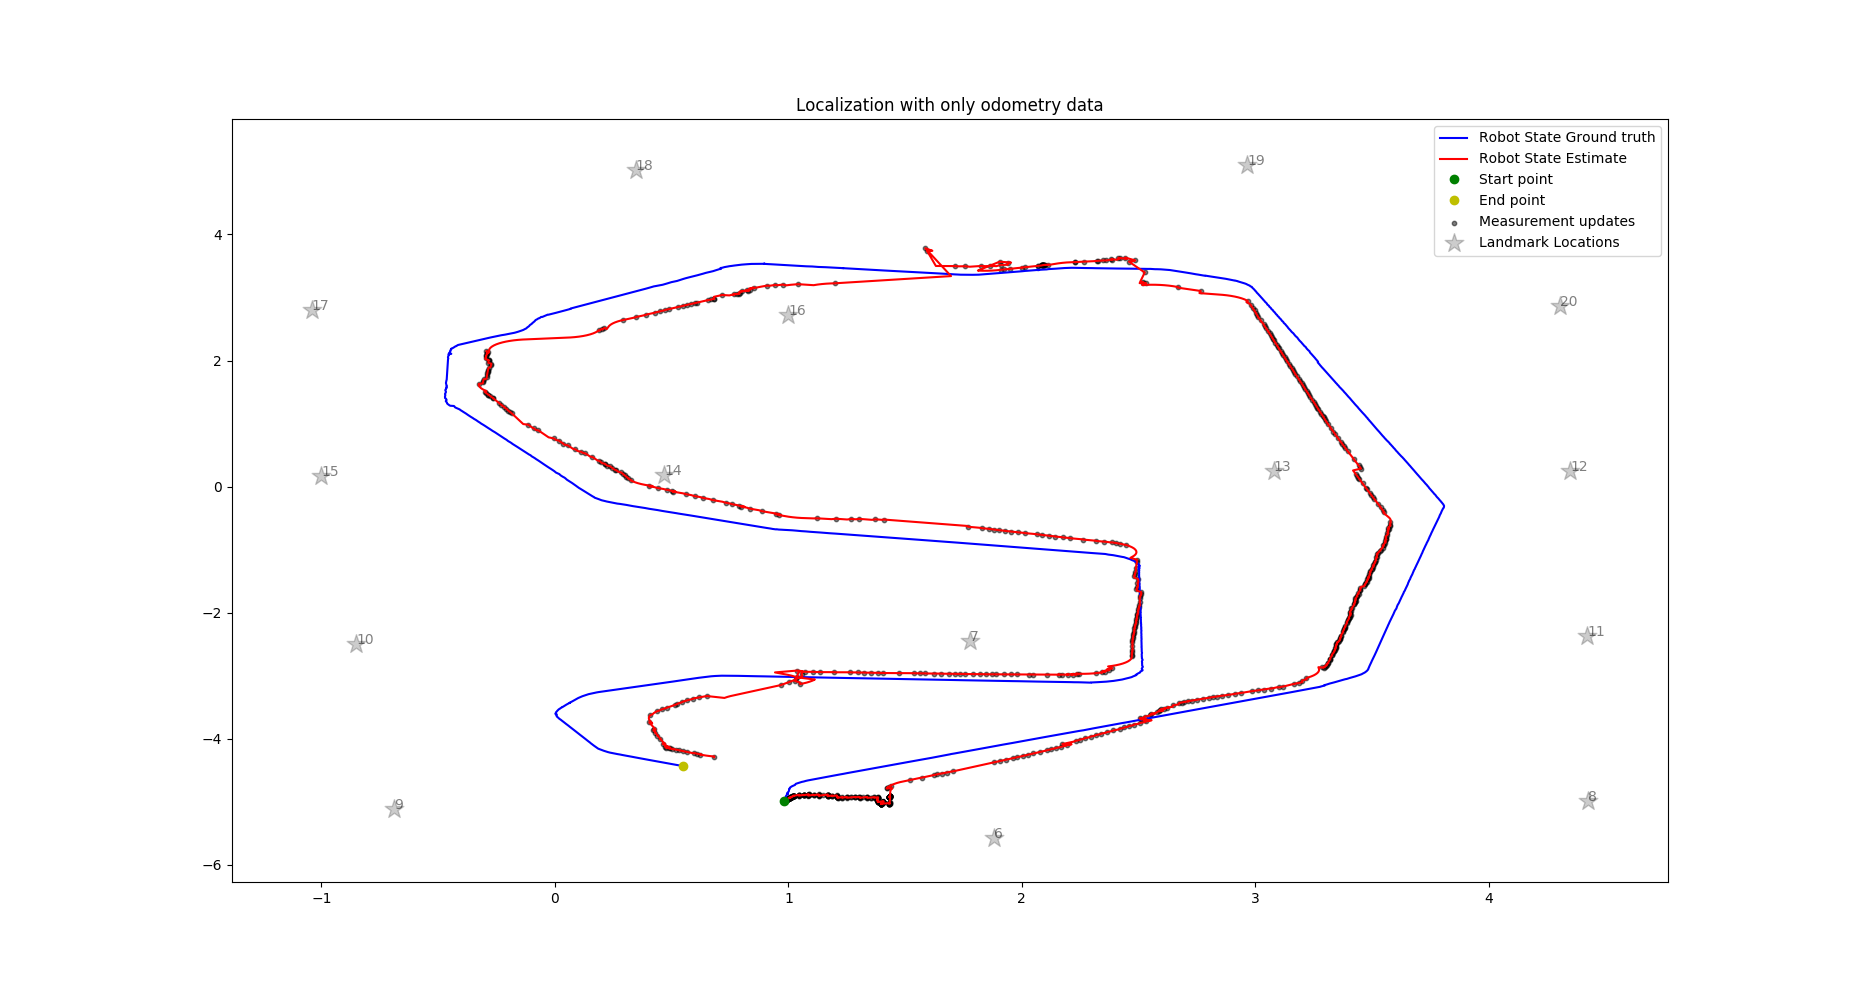
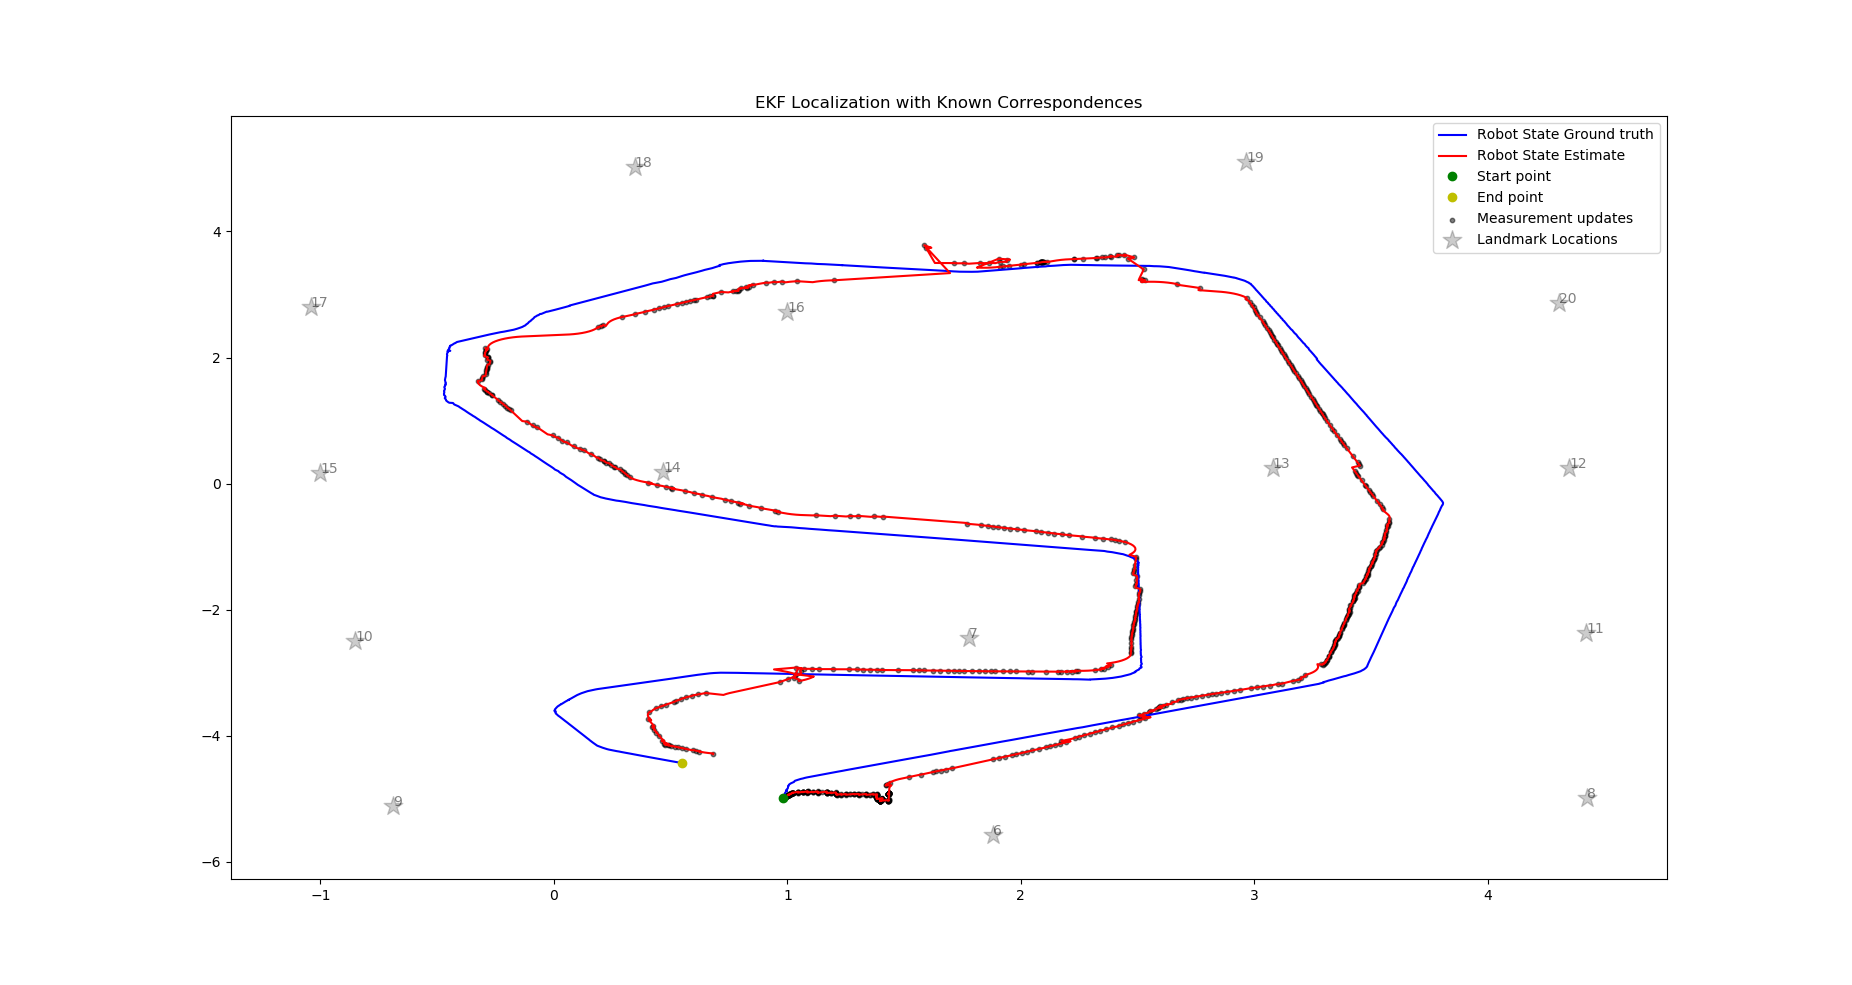
update readme

diff --git a/1.Localization/EKF_Localization_known_correspondences.py b/1.Localization/EKF_Localization_known_correspondences.py
@@ -191,8 +191,8 @@ class ExtendedKalmanFilter():
             plt.text(landmark_xs[-1], landmark_ys[-1], str(index), alpha=0.5, fontsize=10)
         plt.scatter(landmark_xs, landmark_ys, s=200, c='k', alpha=0.2, marker='*', label='Landmark Locations')
 
-        plt.title("Localization with only odometry data")
-        # plt.title("EKF Localization with Known Correspondences")
+        # plt.title("Localization with only odometry data")
+        plt.title("EKF Localization with Known Correspondences")
         plt.legend()
         plt.show()
 

diff --git a/README.md b/README.md
@@ -31,6 +31,7 @@ If you find anything wrong with my implementations, such as wrong understanding 
 <p align = "center">
   <img src = "doc/Odometry.png" height = "360px" style="margin:10px 10px">
 </p>
+
 -----------------------------------------------------------------------------------------
 ## 3. Localization
 
@@ -38,10 +39,12 @@ If you find anything wrong with my implementations, such as wrong understanding 
 <p align = "center">
   <img src = "doc/EKF_Localization_known_correspondences.png" height = "360px" style="margin:10px 10px">
 </p>
+
 ### 3.2. Particle Filter Localization
 <p align = "center">
   <img src = "doc/PF_Localization_known_correspondences.gif" height = "360px" style="margin:10px 10px">
 </p>
+
 -----------------------------------------------------------------------------------------
 ## 4. EKF SLAM
 
@@ -49,10 +52,12 @@ If you find anything wrong with my implementations, such as wrong understanding 
 <p align = "center">
   <img src = "doc/EKF_SLAM_known_correspondences.gif" height = "360px" style="margin:10px 10px">
 </p>
+
 ### 4.2. EKF SLAM with Unknown Correspondence
 <p align = "center">
   <img src = "doc/EKF_SLAM_unknown_correspondences.gif" height = "360px" style="margin:10px 10px">
 </p>
+
 -----------------------------------------------------------------------------------------
 ## 5. Graph SLAM
 
@@ -60,6 +65,7 @@ If you find anything wrong with my implementations, such as wrong understanding 
 <p align = "center">
   <img src = "doc/Graph_SLAM_known_correspondences.png" height = "360px" style="margin:10px 10px">
 </p>
+
 -----------------------------------------------------------------------------------------
 ## 6. Fast SLAM 1
 
@@ -67,10 +73,12 @@ If you find anything wrong with my implementations, such as wrong understanding 
 <p align = "center">
   <img src = "doc/Fast_SLAM_1_known_correspondences.gif" height = "360px" style="margin:10px 10px">
 </p>
+
 ### 6.2. Fast SLAM 1 with Unknown Correspondence
 <p align = "center">
   <img src = "doc/Fast_SLAM_1_unknown_correspondences.gif" height = "360px" style="margin:10px 10px">
 </p>
+
 -----------------------------------------------------------------------------------------
 ## 7. Fast SLAM 2
 
@@ -78,4 +86,5 @@ If you find anything wrong with my implementations, such as wrong understanding 
 <p align = "center">
   <img src = "doc/Fast_SLAM_2_unknown_correspondences.gif" height = "360px" style="margin:10px 10px">
 </p>
+
 -----------------------------------------------------------------------------------------
